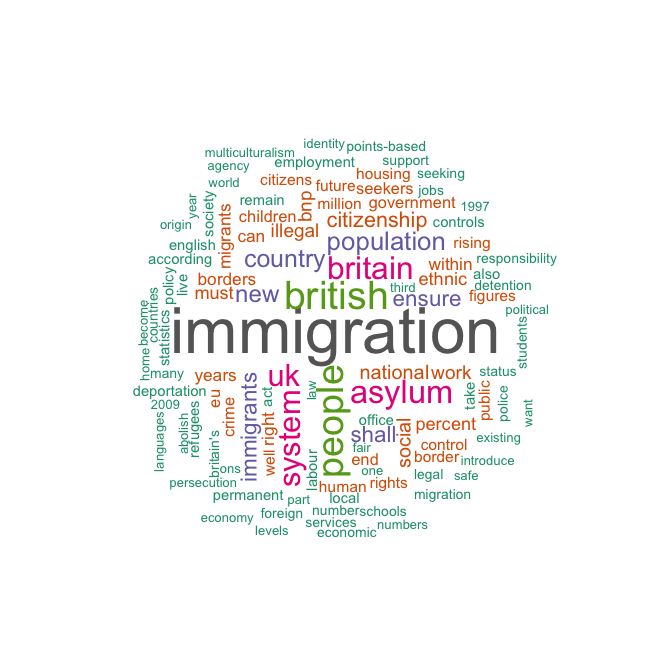
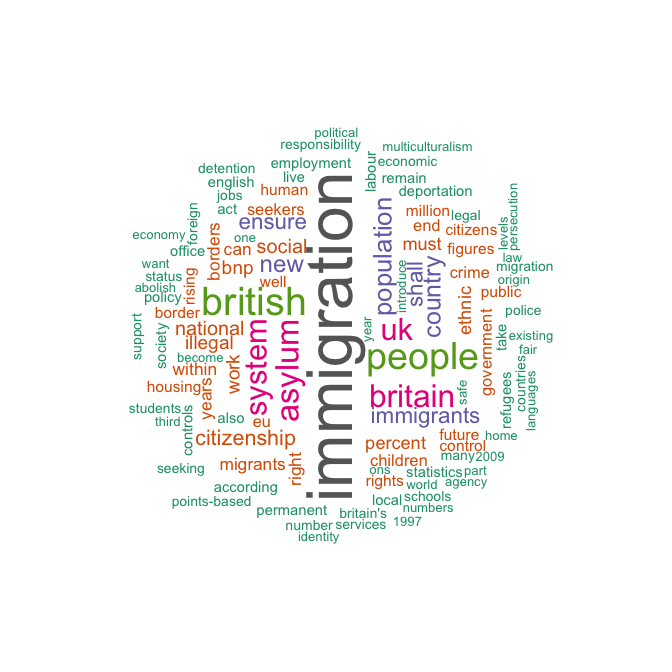
Update README

Changed region(s): [[0.1875, 0.1875, 0.8438, 0.8125]]

diff --git a/README.md b/README.md
@@ -9,12 +9,13 @@ Quantitative Analysis of Textual Data
 **quanteda** v0.9.9 under development
 -------------------------------------
 
-See the new, upcoming [major API changes](API.md), to be incorporated into the next minor version 0.9.9 and for CRAN, in a "1.0" release. Thisupcoming release includes some major changes but also many major improvements.
+See the new, upcoming [major API changes](API.md), to be incorporated into the next minor version 0.9.9 and for CRAN, in a "1.0" release. This upcoming release includes some major changes but also many major improvements.
 
 About the package
 -----------------
 
-An R package for managing and analyzing text, created by Ken Benoit with an amazing team of core [contributors](https://github.com/kbenoit/quanteda/graphs/contributors) including Paul Nulty, Adam Obeng, Kohei Watanabe, Haiyan Wang, Ben Lauderdale, and Will Lowe. Supported by the European Research Council grant ERC-2011-StG 283794-QUANTESS.
+An R package for managing and analyzing text, created by [Kenneth Benoit](kbenoit@lse.ac.uk) in collaboration with a team of core [contributors](https://github.com/kbenoit/quanteda/graphs/contributors): [Paul Nulty](https://github.com/pnulty), [Adam Obeng](https://github.com/adamobeng), [Kohei Watanabe](https://github.com/koheiw), [Haiyan Wang](https://github.com/HaiyanLW), [Ben Lauderdale](https://github.com/lauderdale), and [Will Lowe](https://github.com/conjugateprior).
+Supported by the European Research Council grant ERC-2011-StG 283794-QUANTESS.
 
 Features
 ========
@@ -22,24 +23,34 @@ Features
 Powerful text analytics
 -----------------------
 
-**Generalized, flexible corpus management.** **quanteda** provides a comprehensive workflow and ecosystem for the management, processing, and analysis of texts. Documents and associated document- and collection-level metadata are easily loaded and stored as a *corpus* object, although most of **quanteda**'s operations work on simple character objects as well. A corpus is designed to efficiently store all of the texts in a collection, as well as meta-data for documents and for the collection as a whole. This makes it easy to perform natural language processing on the texts in a corpus simply and quickly, such as tokenizing, stemming, or forming ngrams. **quanteda**'s functions for tokenizing texts and forming multiple tokenized documents into a *document-feature matrix* are both extremely fast and extremely simple to use. **quanteda** can segment texts easily by words, paragraphs, sentences, or even user-supplied delimiters and tags.
+**Generalized, flexible corpus management.**
+**quanteda** provides a comprehensive workflow and ecosystem for the management, processing, and analysis of texts. Documents and associated document- and collection-level metadata are easily loaded and stored as a *corpus* object, although most of **quanteda**'s operations work on simple character objects as well. A corpus is designed to efficiently store all of the texts in a collection, as well as meta-data for documents and for the collection as a whole. This makes it easy to perform natural language processing on the texts in a corpus simply and quickly, such as tokenizing, stemming, or forming ngrams. **quanteda**'s functions for tokenizing texts and forming multiple tokenized documents into a *document-feature matrix* are both extremely fast and extremely simple to use. **quanteda** can segment texts easily by words, paragraphs, sentences, or even user-supplied delimiters and tags.
 
-**Works nicely with UTF-8**. Built on the text processing functions in the **stringi** package, which is in turn built on C++ implementation of the [ICU](http://www.icu-project.org/) libraries for Unicode text handling, **quanteda** pays special attention to fast and correct implementation of Unicode and the handling of text in any character set, following conversion internally to UTF-8.
+**Works nicely with UTF-8**.
+Built on the text processing functions in the **stringi** package, which is in turn built on C++ implementation of the [ICU](http://www.icu-project.org/) libraries for Unicode text handling, **quanteda** pays special attention to fast and correct implementation of Unicode and the handling of text in any character set, following conversion internally to UTF-8.
 
-**Built for efficiency and speed**. All of the functions in **quanteda** are built for maximum performance and scale while still being as R-based as possible. The package makes use of three efficient architectural elements:
+**Built for efficiency and speed**.
+All of the functions in **quanteda** are built for maximum performance and scale while still being as R-based as possible. The package makes use of three efficient architectural elements:
 the **stringi** package for text processing, the **Matrix** package for sparse matrix objects, and the **data.table** package for indexing large documents efficiently. If you can fit it into memory, **quanteda** will handle it quickly. (And eventually, we will make it possible to process objects even larger than available memory.)
 
-**Super-fast conversion of texts into a document-feature matrix**. **quanteda** is principally designed to allow users a fast and convenient method to go from a corpus of texts to a selected matrix of documents by features, after defining and selecting the documents and features. The package makes it easy to redefine documents, for instance by splitting them into sentences or paragraphs, or by tags, as well as to group them into larger documents by document variables, or to subset them based on logical conditions or combinations of document variables. A special variation of the "dfm", a *feature co-occurrence matrix*, is also implemented, for direct use with embedding and representational models such as **text2vec**.
+**Super-fast conversion of texts into a document-feature matrix**.
+**quanteda** is principally designed to allow users a fast and convenient method to go from a corpus of texts to a selected matrix of documents by features, after defining and selecting the documents and features. The package makes it easy to redefine documents, for instance by splitting them into sentences or paragraphs, or by tags, as well as to group them into larger documents by document variables, or to subset them based on logical conditions or combinations of document variables. A special variation of the "dfm", a *feature co-occurrence matrix*, is also implemented, for direct use with embedding and representational models such as [**text2vec**](https://github.com/dselivanov/text2vec).
 
-**Extensive feature selection capabilities**. The package also implements common NLP feature selection functions, such as removing stopwords and stemming in numerous languages, selecting words found in dictionaries, treating words as equivalent based on a user-defined "thesaurus", and trimming and weighting features based on document frequency, feature frequency, and related measures such as *tf-idf*.
+**Extensive feature selection capabilities**.
+The package also implements common NLP feature selection functions, such as removing stopwords and stemming in numerous languages, selecting words found in dictionaries, treating words as equivalent based on a user-defined "thesaurus", and trimming and weighting features based on document frequency, feature frequency, and related measures such as *tf-idf*.
 
-**Qualitative exploratory tools**, such as *keywords in context*. Like all of **quanteda**'s pattern matching functions, users have the option of simple "glob" expressions, regular expressions, or fixed pattern matches.
+**Qualitative exploratory tools**.
+Easily search and save *keywords in context*, for instance, or identify keywords. Like all of **quanteda**'s pattern matching functions, users have the option of simple "[glob](https://en.wikipedia.org/wiki/Glob_(programming))" expressions, regular expressions, or fixed pattern matches.
 
-**Dictionaries**. **quanteda** allows fast and flexible implementation of dictionary methods, including the import and conversion of foreign dictionary formats such as those from Provalis's WordStat, the Linguistic Inquiry and Word Count (LIWC), Lexicoder, and Yoshioder.
+**Dictionary-based analysis**.
+**quanteda** allows fast and flexible implementation of dictionary methods, including the import and conversion of foreign dictionary formats such as those from Provalis's WordStat, the Linguistic Inquiry and Word Count (LIWC), Lexicoder, and Yoshioder.
 
-**Text analytic methods**. Once constructed, a *dfm* can be easily analyzed using either **quanteda**'s built-in tools for scaling document positions (for the "wordfish" and "Wordscores" models, direct use with the **ca** package for correspondence analysis), predictive models using Naive Bayes multinomial and Bernoulli classifiers, computing distance or similarity matrixes of features or documents, or computing readability or lexical diversity indexes. In addition, **quanteda** a document-feature matrix is easily used with or converted for a number of other text analytic tools, such as:
+**Text analytic methods**.
+Once constructed, a *dfm* can be easily analyzed using either **quanteda**'s built-in tools for scaling document positions (for the "wordfish" and "Wordscores" models, direct use with the [**ca**](https://CRAN.R-project.org/package=ca) package for correspondence analysis), predictive models using Naive Bayes multinomial and Bernoulli classifiers, computing distance or similarity matrixes of features or documents, or computing readability or lexical diversity indexes.
 
--   *topic models* (including converters for direct use with the **topicmodels**, **LDA**, and **stm** packages);
+In addition, **quanteda** a document-feature matrix is easily used with or converted for a number of other text analytic tools, such as:
+
+-   *topic models* (including converters for direct use with the [**topicmodels**](https://CRAN.R-project.org/package=topicmodels), [**LDA**](https://CRAN.R-project.org/package=lda), and [**stm**](http://www.structuraltopicmodel.com) packages);
 
 -   machine learning through a variety of other packages that take matrix or matrix-like inputs.
 
@@ -56,13 +67,13 @@ the **stringi** package for text processing, the **Matrix** package for sparse m
 How to Install
 ==============
 
-1.  **From CRAN**: Use your GUI's R package installer, or execute:
+1.  From [CRAN](https://CRAN.R-project.org/package=quanteda): Use your GUI's R package installer, or execute:
 
     ``` r
     install.packages("quanteda") 
     ```
 
-2.  **From GitHub**, using:
+2.  From [GitHub](https://github.com/kbenoit/quanteda), using:
 
     ``` r
     # devtools packaged required to install quanteda from Github 
@@ -71,34 +82,42 @@ How to Install
 
     Because this compiles some C++ source code, you will need a compiler installed. If you are using a Windows platform, this means you will need also to install the [Rtools](https://CRAN.R-project.org/bin/windows/Rtools/) software available from CRAN. If you are using OS X, you will need to to install XCode, available for free from the App Store, or if you prefer a lighter footprint set of tools, [just the Xcode command line tools](http://osxdaily.com/2014/02/12/install-command-line-tools-mac-os-x/), using the command `xcode-select --install` from the Terminal.
 
-3.  **Additional recommended packages:**
+3.  Additional recommended packages:
 
     The following packages work well with **quanteda** and we recommend that you also install them:
 
-    -   **readtext**: For reading text data into R.
+    -   [**readtext**](https://github.com/kbenoit/readtext): For reading text data into R.
 
         ``` r
         devtools::install_github("kbenoit/readtext")
         ```
 
-    -   **quantedaData**: Additional textual data for use with quanteda.
+    -   [**quantedaData**](https://github.com/kbenoit/quantedaData): Additional textual data for use with **quanteda**.
 
         ``` r
         r devtools::install_github("kbenoit/quantedaData")
         ```
 
-    -   **spacyr**: NLP using the [spaCy](http://spacy.io) library.
+    -   [**spacyr**](https://github.com/kbenoit/spacyr): NLP using the [spaCy](http://spacy.io) library.
 
 Getting Started
 ===============
 
-See the [package website](http://kbenoit.github.io/quanteda), which includes the [Getting Started Vignette](http://htmlpreview.github.com/?https://github.com/kbenoit/quanteda/blob/master/vignettes/quickstart.html).
+See the [package website](http://kbenoit.github.io/quanteda), which includes the [Getting Started Vignette](https://kbenoit.github.io/quanteda/articles/quickstart.html).
 
 Demonstration
 =============
 
 ``` r
 library(quanteda)
+## 
+## This data.table install has not detected OpenMP support. It will work but slower in single threaded mode.
+## quanteda version 0.9.8.9022
+## 
+## Attaching package: 'quanteda'
+## The following object is masked from 'package:base':
+## 
+##     sample
 
 # create a corpus from the immigration texts from UK party platforms
 uk2010immigCorpus <- 
@@ -121,8 +140,8 @@ summary(uk2010immigCorpus)
 ##           SNP    90    136         4          SNP
 ##          UKIP   346    739        27         UKIP
 ## 
-## Source:  /Users/akitaka/Dropbox/KB_Projects/r_package_development/quanteda/* on x86_64 by akitaka
-## Created: Mon Dec  5 12:27:38 2016
+## Source:  /Users/kbenoit/Dropbox (Personal)/GitHub/quanteda/* on x86_64 by kbenoit
+## Created: Mon Dec  5 13:53:22 2016
 ## Notes:   Immigration-related sections of 2010 UK party manifestos
 
 # key words in context for "deport", 3 words of context
@@ -160,4 +179,12 @@ textplot_wordcloud(mydfm, min.freq = 6, random.order = FALSE,
 Contributing
 ============
 
-Describe.
+Contributions in the form of feedback, comments, code, and bug reports are most welcome. How to contribute:
+
+-   Fork the source code, modify, and issue a [pull request](https://help.github.com/articles/creating-a-pull-request-from-a-fork/) through the [project GitHub page](https://github.com/kbenoit/quanteda). See our [Contributor Code of Conduct](https://github.com/kbenoit/quanteda/blob/master/CONDUCT.md).
+
+-   Issues, bug reports, and wish lists: [File a GitHub issue](https://github.com/kbenoit/quanteda/issues).
+
+-   Usage questions: Submit a question on the [**quanteda** channel on StackOverflow](http://stackoverflow.com/questions/tagged/quanteda).
+
+-   Contact [the maintainer](kbenoit@lse.ac.uk) by email.

diff --git a/CONDUCT.md b/CONDUCT.md
@@ -6,7 +6,8 @@ submitting pull requests or patches, and other activities.
 
 We are committed to making participation in this project a harassment-free experience for
 everyone, regardless of level of experience, gender, gender identity and expression,
-sexual orientation, disability, personal appearance, body size, race, ethnicity, age, or religion.
+sexual orientation, disability, personal appearance, body size, race, ethnicity, age, religion,
+or choice of text editor.
 
 Examples of unacceptable behavior by participants include the use of sexual language or
 imagery, derogatory comments or personal attacks, trolling, public or private harassment,
